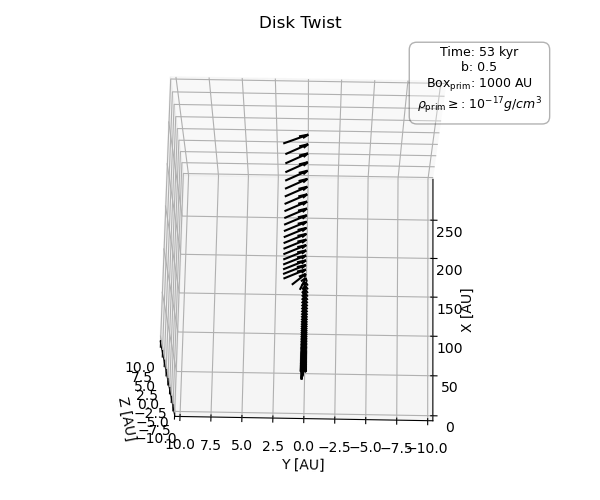
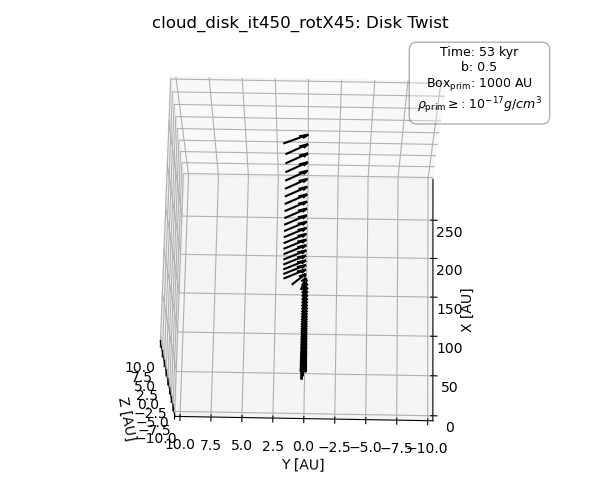
right twist formula, mass weighted L_avg (I am incredibly stupid)

Changed region(s): [[0.24, 0.03, 0.75, 0.06]]

diff --git a/analysis.py b/analysis.py
@@ -410,6 +410,7 @@ def calc_L_average(Lx, Ly, Lz, mass):
     Lx:       Angular momentum array in x-direction with size (theta, r, phi)
     Ly:       Angular momentum array in y-direction with size (theta, r, phi)
     Lz:       Angular momentum array in z-direction with size (theta, r, phi)
+    mass:     3D mass array (theta, r, phi)
 
     Outputs:
     -------
@@ -418,12 +419,10 @@ def calc_L_average(Lx, Ly, Lz, mass):
     Lz_avg:      1D array of radially averaged Lz
     """
 
-    # Angular momentum vectors for each shell L(r)
-    print(Lx.shape, Ly.shape, mass.shape)
-    ejfnervnke
-    Lx_avg = np.nansum(Lx * mass, axis=(0,2))
-    Ly_avg = np.nansum(Ly, axis=(0,2))
-    Lz_avg = np.nansum(Lz, axis=(0,2))
+    # Mass averaged angular momentum vectors for each shell L(r)
+    Lx_avg = np.nansum(Lx * mass, axis=(0,2)) / np.sum(mass, axis=(0,2))
+    Ly_avg = np.nansum(Ly * mass, axis=(0,2)) / np.sum(mass, axis=(0,2))
+    Lz_avg = np.nansum(Lz * mass, axis=(0,2)) / np.sum(mass, axis=(0,2))
 
     return Lx_avg, Ly_avg, Lz_avg
 
@@ -455,7 +454,7 @@ def calc_inc_twist(Lx_avg, Ly_avg, Lz_avg, R, savefig, plot=True):
 
     # Calculating warp twist
     # twist_rad = np.arccos(Lx_avg / Lxy_proj)
-    twist_rad = np.arctan2(Ly_avg / Lx_avg)
+    twist_rad = np.arctan2(Ly_avg, Lx_avg)
     twist_deg = np.degrees(twist_rad)
 
     # Calculating warp inclination (Kimmig & Dullemond 2024)
@@ -505,9 +504,9 @@ def calc_total_L(Lx_avg, Ly_avg, Lz_avg):
 
 def main():
 
-    folder = Path("../cloud_nodisk_it450_rotXY90/")                        # Folder with the output files
+    folder = Path("../cloud_disk_it450_rotX45/")                        # Folder with the output files
     # folder = Path("../fargo3d/outputs/cloud_nodisk_it450_rotX45")         # Folder with the output files (BinAC2)
-    fig_imgs = Path("cloud_nodisk_it450_rotX45/imgs/")                    # Folder to save images
+    fig_imgs = Path("cloud_disk_it450_rotX45/imgs/")                    # Folder to save images
     it = 450                                                       # FARGO snapshot of interest
     sim_name = str(fig_imgs).split('/')[0]                         # Simulation name (for plot labels)
     sim_params = load_par_file(f"{sim_name}/{sim_name}.par")       # Loading simulation parameters from the .par file
@@ -604,9 +603,9 @@ def main():
     # quiver_plot_3d(X_c[warp_ids]/au, Y_c[warp_ids]/au, Z_c[warp_ids]/au, Lx[warp_ids], Ly[warp_ids], Lz[warp_ids], stagger=100, length=3, title="Warp Angular Momenta", colorbarlabel="logL", savefig=True, figfolder=f'{fig_imgs}/warp_L_thresh{warp_thresh}_it{it}.png', logmag=True)
 
     # Calculating the radial profile of warp/disk inclination and precession according to Kimmig & Dullemond (2024)
-    Lx_warp_avg, Ly_warp_avg, Lz_warp_avg = calc_L_average(Lx_c_warp, Ly_c_warp, Lz_c_warp)
+    Lx_warp_avg, Ly_warp_avg, Lz_warp_avg = calc_L_average(Lx_c_warp, Ly_c_warp, Lz_c_warp, mass)
     inc, twist = calc_inc_twist(Lx_warp_avg, Ly_warp_avg, Lz_warp_avg, domains["r"], savefig=False, plot=False)
-    # print(np.min(twist), np.max(twist), np.mean(twist))
+    print(np.min(twist), np.max(twist), np.mean(twist))
 
     # Calculating and plotting the radial profile of warp/disk precession as a quiver plot
     plot_twist_arrows(Lx_warp_avg, Ly_warp_avg, Lz_warp_avg, domains["r"], r_select, plot_args, title=f"{sim_name}: Disk Twist", savefig=True, figfolder=f'{fig_imgs}/warp_twist_arrows_it{it}_dens{warp_thresh}.png', showfig=True)

diff --git a/initial_plots.py b/initial_plots.py
@@ -8,7 +8,7 @@ import astropy.constants as c
 au = c.au.cgs.value
 
 
-folder = Path("../cloud_disk_it450_Rout30_rotX45/")         # Folder with the output files
+folder = Path("../cloud_nodisk_it450_rotX45/")         # Folder with the output files
 sim_name = str(folder).split('/')[1]                 # Simulation name (for plot labelling)
 it = 450                                             # FARGO snapshot
 
